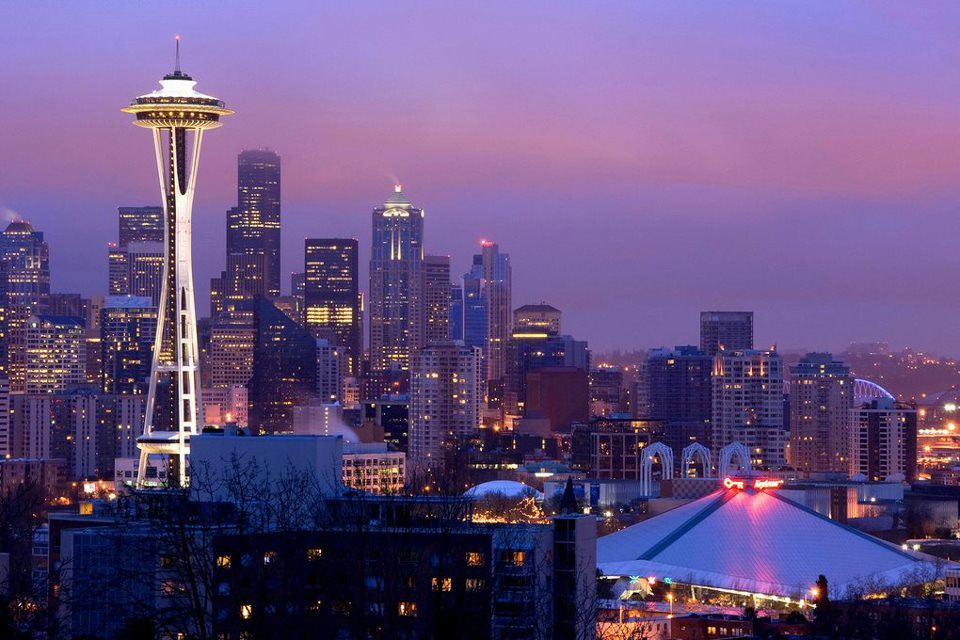
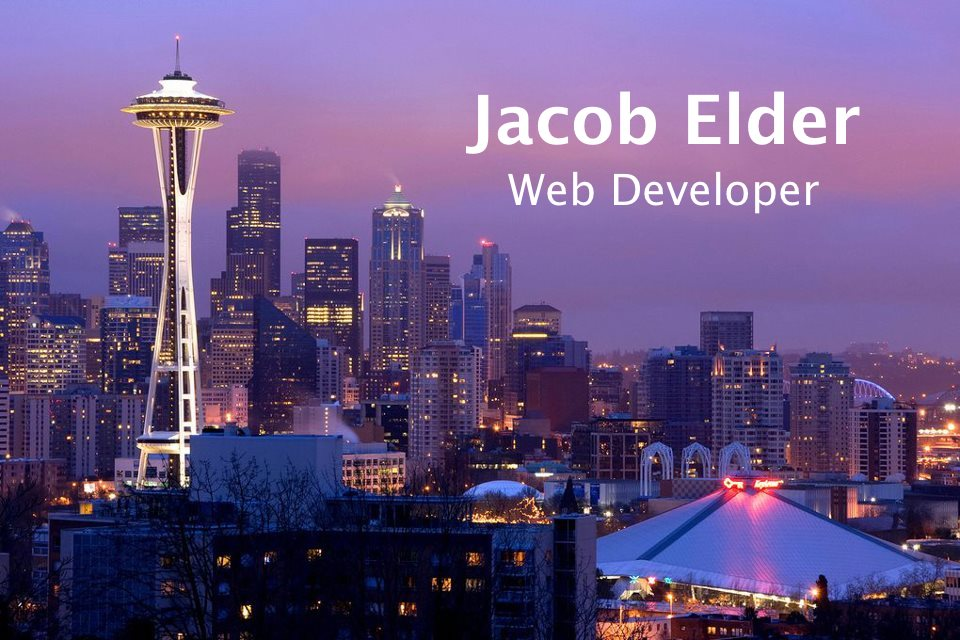
changed some wording

Changed region(s): [[0.4688, 0.125, 0.8438, 0.3438], [0.7188, 0.125, 0.9062, 0.25]]

diff --git a/app/views/home.html b/app/views/home.html
@@ -5,7 +5,7 @@
 <div class="seattle">
 	<div id="seattle-text" ng-show="true">
 		<h1>Jacob Elder</h1>
-		<h2>Software Developer</h2>
+		<h2>Web Developer</h2>
 	</div>
 </div>
 

diff --git a/css/home.css b/css/home.css
@@ -31,11 +31,11 @@ body {
 }
 
 #seattle-text h1 {
-	font-size: 4.3em;
+	font-size: 4.5em;
 }
 
 #seattle-text h2 {
-    font-size: 2.5em;
+    font-size: 2.8em;
 }
 
 .forest { 
